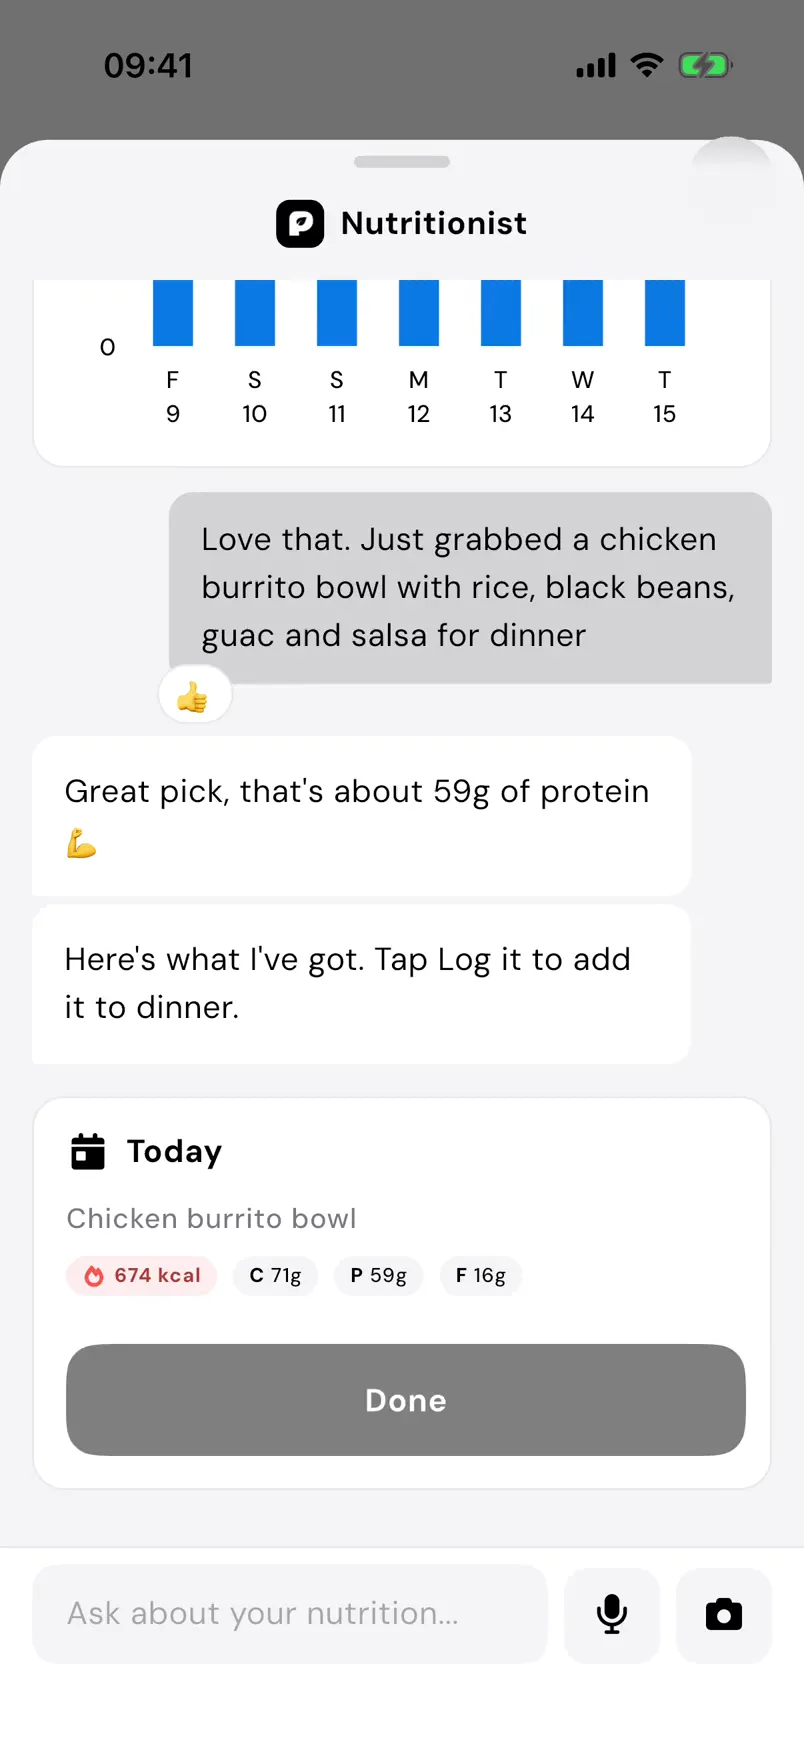
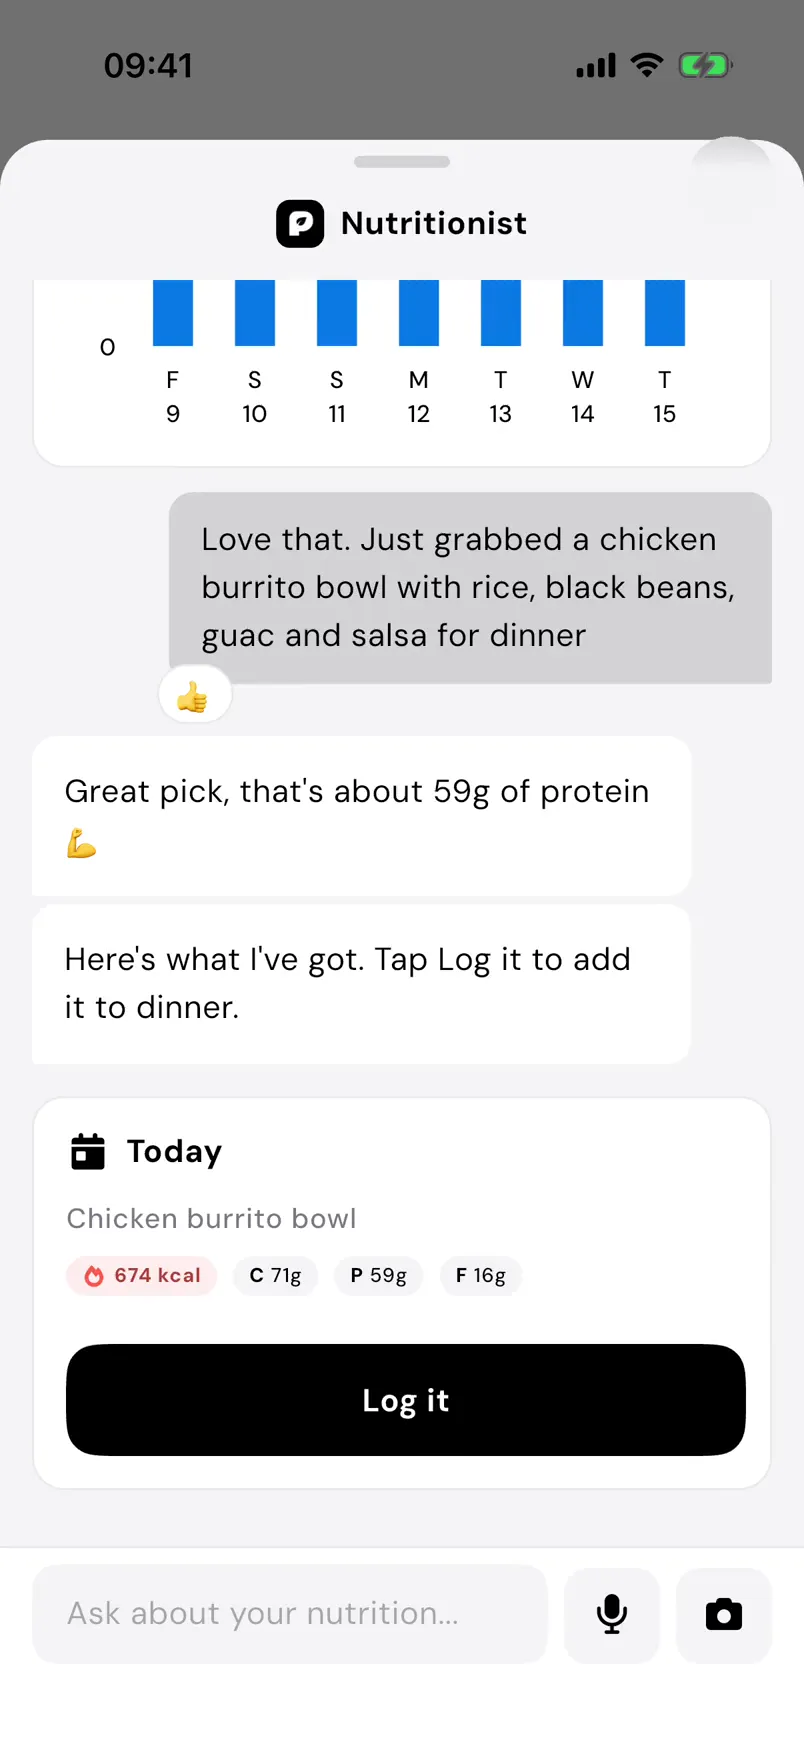
PRE-286: Tell it what you had poster shows the card before Log it is tapped
Claude-Session: https://claude.ai/code/session_01PLQTRBFzEREbvFWWgYZpxc

Changed region(s): [[0.0622, 0.7414, 0.9328, 0.8341]]

diff --git a/scripts/process-app-captures.py b/scripts/process-app-captures.py
@@ -50,7 +50,10 @@ NAME_BOX_X, NAME_BOX_W, NAME_BOX_H = 728, 240, 86
 # loading bubbles). Their poster, which is all a visitor sees under reduced
 # motion, in Low Power Mode and before playback, is the last frame instead:
 # the filled log, the finished plan, the answered chat (PRE-235).
-POSTER_FROM_END = ("03-log-typed", "04-log-photo", "08-chat-ask", "09-chat-log-it")
+POSTER_FROM_END = ("03-log-typed", "04-log-photo", "08-chat-ask")
+# Posters taken at a set second of the cut clip instead: the chat card with its
+# black Log it button, before it is tapped, since nothing saves until then (PRE-286).
+POSTER_AT = {"09-chat-log-it": 8}
 
 # Videos that show the Home header somewhere, so the avatar is blurred throughout.
 AVATAR_VIDEOS = ("03-log-typed", "04-log-photo", "09-chat-log-it", "21-walkthrough")
@@ -172,7 +175,7 @@ def video(name: str) -> None:
                              "-movflags", "+faststart", base + ".mp4"], check=True)
     subprocess.run(common + ["-c:v", "libvpx-vp9", "-crf", "40", "-b:v", "0", "-row-mt", "1",
                              base + ".webm"], check=True)
-    seek = ["-sseof", "-0.1"] if name in POSTER_FROM_END else []
+    seek = ["-sseof", "-0.1"] if name in POSTER_FROM_END else ["-ss", str(POSTER_AT.get(name, 0))]
     subprocess.run(["ffmpeg", "-y", "-hide_banner", "-loglevel", "error", *seek, "-i", base + ".mp4",
                     "-frames:v", "1", "-c:v", "libwebp", "-quality", "80", base + "-poster.webp"], check=True)
 
